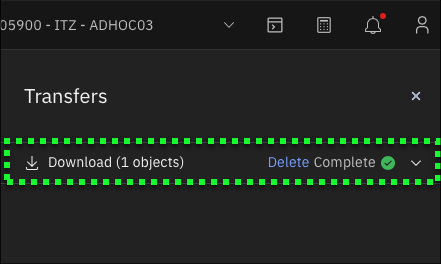
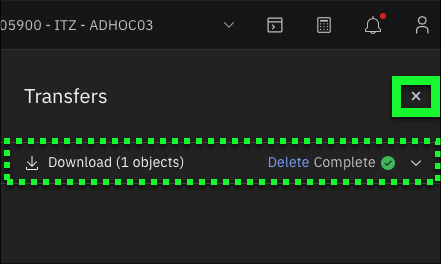
updated number and images

Changed region(s): [[0.8844, 0.2727, 1.0, 0.4545]]

diff --git a/docs/Part 3/03 ClickThru.md b/docs/Part 3/03 ClickThru.md
@@ -13,25 +13,25 @@ Note, fields that require a text entry (e.g. service name) are pre-populated in 
 3. Click in the **Catalog search** text entry field.
 4. Click the **Key Protect** tile.
 5. Click the **Select a location** pull-down menu.
-7. Click the **{{KeyProtect.serviceInstanceLocation}} Region** option in the location pull-down menu.
-8. Click in the **Service name** text entry field.
-9. Click the **Select a resource group** pull-down menu.
-10. Click the **{{KeyProtect.serviceInstanceRG}}** option in the resource group pull-down menu.
-11. Click the **I have read and agree to the following license agreements** check box.
-12. Click the **Create** button. 
+6. Click the **{{KeyProtect.serviceInstanceLocation}} Region** option in the location pull-down menu.
+7. Click in the **Service name** text entry field.
+8. Click the **Select a resource group** pull-down menu.
+9. Click the **{{KeyProtect.serviceInstanceRG}}** option in the resource group pull-down menu.
+10. Click the **I have read and agree to the following license agreements** check box.
+11. Click the **Create** button.
 
 Once the provisioning completes, the new Key Protect service can be found in the **Services and software** section of the IBM Cloud Portal dashboard. The Key Protect service instance is now ready for use.
 
 Next, a Root Key needs to be created in the Key Protect service.
 
-13. Click **Keys** in the left-hand menu pane.
-14. Click the **Add +** button.
+12. Click **Keys** in the left-hand menu pane.
+13. Click the **Add +** button.
 
 Notice **Root key** is already selected under **key type**.
 
-15. Click in the **Key name** text entry field.
-16. Click the **Select a key ring** pull-down menu.
-17. Click the **default** option in the key ring pull-down menu.
-18. Click **Add key**.
+14. Click in the **Key name** text entry field.
+15. Click the **Select a key ring** pull-down menu.
+16. Click the **default** option in the key ring pull-down menu.
+17. Click **Add key**.
 
 In the next part of the demonstration guide, learn how to create a **Service authorization** between the COS service instance and the Key Protect service instance.

diff --git a/docs/Part 7/03 Manage regulated content.md b/docs/Part 7/03 Manage regulated content.md
@@ -62,13 +62,13 @@ At this time, there may or may not be events displayed in the **Activity Tracker
 
 11. Scroll down to the **Retention** section of the **Organize your objects (advanced)** section.
 
-![](_attachments/ObjectUploadRetention.png)
+![](_attachments/OjbectRetentionDialog.png)
 
 A couple of items to note. The default **Duration** is set to 1 day. Recall this from the **bucket** settings. Also note, the **eligible for deletion** date should align with the maximum retention value of the **bucket**.
 
 12. Change the **Duration** field from **1** to **0** days and click **Upload**.
 
-![](_attachments/ObjectUploadObject.png)
+![](_attachments/ObjectUploadRetention.png)
 
 A **Transfers** dialog will appear, and an **Upload Success** message should also be displayed. Clear these by clicking the **x** for each dialog. Additionally, now in the bucket details table, the newly upload object should be listed. Note, use the table search or use the **Object name** sort option in the table to find the uploaded object.
 
@@ -90,9 +90,11 @@ Notice the two new options available: **Download objects** and **Delete objects*
 
 16. Click **Download objects**.
 
-![](_attachments/DownloadDialog.png)
+![](_attachments/ObjectSelectedDownload.png)
 
 The **Transfers** dialog shows the download progress and success. Dismiss the **Transfers** dialog by clicking the **X** at top right.
+
+![](_attachments/DownloadDialog.png)
 
 17. Select the **checkbox** beside the filename again, and click **Delete objects**.
 
